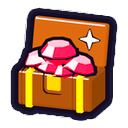
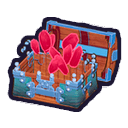
art(shop): 상점 묶음 그림 — 보석 팩이 수량대로 커지고 재화 탭은 상자 · 물약(Sketchfab CC BY, 셀 그림체로 다시 렌더)
- 붉은 보석 8 → 원석 하나, 45 → 결정 더미, 120 → 보석 넘치는 상자(뚜껑을 경첩 축으로 연 Sketchfab 상자)
- 재화 탭: 황금 보급 상자 = 금화 넘치는 상자 · 강화석 상자 = 하늘빛 결정 상자 · 방치 가속권(24h · 광고) = 물약
- art-gen/blender/sketchfab_icons.py: 보석 팩 한 메시를 떨어진 조각으로 나눠 골라 쓰고, 손그림 밝기만 살려 두 색 사이로 다시 칠한다(원색이 어두운 자주라 상점 보석보다 탁했다)
- 조립은 기존 scripts/assemble-shop-icons.mjs(PKG_SRC=art-gen/out/b3d-sficons) — 128² · 스티커 외곽선
- 크레딧: 게임 안(src/ui/credits.ts) · docs/CREDITS.md / 검사: verify-systems 상점 묶음 그림 단언

diff --git a/src/TitansGame.tsx b/src/TitansGame.tsx
@@ -5900,9 +5900,9 @@ export function TitansGame({ insets, userHash, forgedWeaponLevel: drumLevel = 0,
                 </article>
               );
             })}
-            {/* 재화 팩 — 수량이 진행도 비례라 후반에도 유의미하다 */}
+            {/* 재화 팩 — 수량이 진행도 비례라 후반에도 유의미하다. 그림은 상자 · 물약(2026-11-24, Sketchfab CC BY → 셀 렌더 art-gen/blender/sketchfab_icons.py) */}
             {premiumCategory === "currency" && <><article className="titans-card premium-product-card gem-product">
-              <RewardIcon kind="gold" size={38} className="pack-icon" />
+              <img className="pack-icon" src={assetUrl("ui/shop/gold-pack.png")} alt="" aria-hidden="true" />
               <div>
                 <strong>황금 보급 상자</strong>
                 <p>사냥터 골드 +{formatGold(goldPackAmount(character))} · 최고 스테이지 비례 <i className="feeds">→ 동료 레벨 · 무기 훈련</i></p>
@@ -5912,7 +5912,7 @@ export function TitansGame({ insets, userHash, forgedWeaponLevel: drumLevel = 0,
               </button>
             </article>
             <article className="titans-card premium-product-card gem-product">
-              <RewardIcon kind="materials" size={38} className="pack-icon" />
+              <img className="pack-icon" src={assetUrl("ui/shop/material-pack.png")} alt="" aria-hidden="true" />
               <div>
                 <strong>강화석 상자</strong>
                 <p>강화석 +{GEM_PACK.materialPackAmount} · 대장간·펫 간식 재료 <i className="feeds">→ 북 강화 · 보호구</i></p>
@@ -5964,7 +5964,7 @@ export function TitansGame({ insets, userHash, forgedWeaponLevel: drumLevel = 0,
             {/* L 보상형 광고: 방치 가속 4h (1일 1회) — 미연동이면 카드 자체가 없다 */}
             {premiumCategory === "currency" && rewardedAvailability(character, "booster4h", new Date().toLocaleDateString("sv-SE")) !== "none" && (
               <article className="titans-card premium-product-card gem-product ad-product">
-                <CurrencyIcon kind="gem" />
+                <img className="pack-icon" src={assetUrl("ui/shop/idle-boost.png")} alt="" aria-hidden="true" />
                 <div>
                   <strong>방치 가속 {BOOSTER_AD_HOURS}h {character.adFree ? <em>광고 제거</em> : <em>광고</em>}</strong>
                   <p>{character.adFree ? "광고 없이 오늘 1회 자동 적용" : "30초 광고 시청 · 오늘 1회"}</p>
@@ -5973,7 +5973,7 @@ export function TitansGame({ insets, userHash, forgedWeaponLevel: drumLevel = 0,
               </article>
             )}
             {premiumCategory === "currency" && <article className="titans-card premium-product-card gem-product">
-              <RewardIcon kind="boost" size={38} className="pack-icon" />
+              <img className="pack-icon" src={assetUrl("ui/shop/idle-boost.png")} alt="" aria-hidden="true" />
               <div>
                 <strong>방치 가속권 24h {character.idleBoostUntil > Date.now() && <em>적용 중</em>}</strong>
                 <p>24시간 동안 방치 산출 2배 · 중첩 불가 <i className="feeds">→ 방치 정산 골드·경험치</i></p>

diff --git a/src/ui/credits.ts b/src/ui/credits.ts
@@ -23,6 +23,10 @@ export const SKETCHFAB_CREDITS: readonly ModelCredit[] = [
   { title: "PBR Low-poly Fox Character", author: "Ida Faber", url: "https://sketchfab.com/3d-models/pbr-low-poly-fox-character-88ed6191446749b9a9e24b995bcb5e1d", use: "펫 '꼬마 여우'" },
   { title: "Penguin plush", author: "SunnyBuns", url: "https://sketchfab.com/3d-models/penguin-plush-228fddb7362f42e2a349b84cbe8191b4", use: "펫 '아기 펭귄'" },
   { title: "Frog", author: "gooseg489", url: "https://sketchfab.com/3d-models/frog-b3fb06508c5649fd8ecb30d79e2b9050", use: "펫 '풀잎 개구리'" },
+  // 상점 묶음 그림(2026-11-24, art-gen/blender/sketchfab_icons.py → public/ui/shop)
+  { title: "Stylized Crystal Gem pack - Handpainted", author: "ashkan.fancy", url: "https://sketchfab.com/3d-models/stylized-crystal-gem-pack-handpainted-9aa1af6e18b24c99af00e850f9fd2658", use: "상점 붉은 보석 팩 · 강화석 상자 그림" },
+  { title: "Stylized Treasure Chest", author: "Tom Verbeeck", url: "https://sketchfab.com/3d-models/stylized-treasure-chest-dbeae8db89eb433f832d0ef48f12480e", use: "상점 보석 120 · 황금 보급 상자 · 강화석 상자 그림" },
+  { title: "Stylized Potion", author: "Moon Cube Studios (@KinanArts)", url: "https://sketchfab.com/3d-models/stylized-potion-78d411a585144c4f91ca51d876982ed7", use: "상점 방치 가속권 그림" },
 ];
 
 export const CREDIT_LICENSE = "CC BY 4.0 — 우리 그림체(셀 음영 · 외곽선)로 다시 렌더해 바꿨다";

diff --git a/art-gen/blender/sketchfab_icons.py b/art-gen/blender/sketchfab_icons.py
@@ -1,0 +1,334 @@
+"""상점 묶음 그림 — Sketchfab 보석 · 상자 · 물약(CC BY) → 셀 아이콘 (2026-11-24, 사용자: "sketchfab … 아이콘 · UI" → "상점 묶음 그림 만들기").
+  blender -b -P art-gen/blender/sketchfab_icons.py -- [all | <job> …]      (ART_STYLE=toon 기본 셀)
+  SFI_PREVIEW=1 … -- gems chest potion   → 원본 그대로 한 장씩(모양 · 앞쪽 확인)
+입력: art-gen/out/sketchfab/i-gems.glb · i-chest.glb · i-potion.glb (저장소 밖 — 작가 · 라이선스는 docs/CREDITS.md)
+출력: art-gen/out/b3d-sficons/pkg-<상품>.png (512²) → PKG_SRC=art-gen/out/b3d-sficons node scripts/assemble-shop-icons.mjs
+보석 팩은 수량이 늘수록 그림도 커진다 — 보석 하나(80) → 보석 더미(450) → 보석 넘치는 상자(1200).
+재화 탭: 황금 보급 상자 = 금화 넘치는 상자 · 강화석 상자 = 푸른 결정 넘치는 상자 · 방치 가속권 = 물약.
+카메라 · 조명 · 셀 설정은 유물/패키지 아이콘(relic_icons.py)과 같다 — 직교 · 위에서 비스듬히, 외곽선은 assemble 의 스티커."""
+import bpy
+import sys
+import os
+import math
+import random
+from mathutils import Vector, Euler
+
+sys.path.insert(0, os.path.dirname(os.path.abspath(__file__)))
+from lib import bcommon as C
+
+ROOT = os.path.abspath(os.path.join(os.path.dirname(__file__), '..', '..'))
+SRC = os.path.join(ROOT, 'art-gen', 'out', 'sketchfab')
+OUT = os.environ.get('SFI_OUT') or os.path.join(ROOT, 'art-gen', 'out', 'b3d-sficons')
+INK_W = float(os.environ.get('SFI_INK', '0.018'))
+
+
+def import_glb(file, keep=None, piece=None):
+    before = set(bpy.data.objects)
+    bpy.ops.import_scene.gltf(filepath=os.path.join(SRC, file))
+    objs = [o for o in bpy.data.objects if o not in before]
+    if keep:   # 메시 이름에 keep 이 든 것만(묶음 파일에서 하나 고르기)
+        for o in [o for o in objs if o.type == 'MESH' and keep not in o.name]:
+            objs.remove(o)
+            bpy.data.objects.remove(o, do_unlink=True)
+    if piece is not None:   # 한 메시에 물건이 줄지어 붙어 있다(보석 팩: 결정 덩어리 + 보석 6) — 떨어진 조각으로 나눠 왼쪽부터 piece 번째 무리만
+        objs = only_piece(objs, piece)
+    return objs
+
+
+def only_piece(objs, idx):
+    mesh = next(o for o in objs if o.type == 'MESH')
+    bpy.ops.object.select_all(action='DESELECT')
+    mesh.select_set(True)
+    bpy.context.view_layer.objects.active = mesh
+    bpy.ops.object.mode_set(mode='EDIT')
+    bpy.ops.mesh.select_all(action='SELECT')
+    bpy.ops.mesh.separate(type='LOOSE')
+    bpy.ops.object.mode_set(mode='OBJECT')
+    parts = [o for o in bpy.context.selected_objects if o.type == 'MESH']
+    bpy.context.view_layer.update()
+
+    def xr(o):
+        xs = [(o.matrix_world @ Vector(c)).x for c in o.bound_box]
+        return min(xs), max(xs)
+    parts.sort(key=lambda o: xr(o)[0])
+    groups, hi = [], -1e9
+    for o in parts:   # x 범위가 겹치면 같은 무리(결정 덩어리는 조각 여럿)
+        lo_, hi_ = xr(o)
+        if groups and lo_ < hi + 0.02:
+            groups[-1].append(o)
+            hi = max(hi, hi_)
+        else:
+            groups.append([o])
+            hi = hi_
+    keep = set(groups[idx])
+    for o in parts:
+        if o not in keep:
+            objs.remove(o) if o in objs else None
+            bpy.data.objects.remove(o, do_unlink=True)
+    return [o for o in objs if o.name in bpy.data.objects] + [o for o in keep if o not in objs]
+
+
+def bounds(objs):
+    bpy.context.view_layer.update()
+    lo, hi = Vector((1e9, 1e9, 1e9)), Vector((-1e9, -1e9, -1e9))
+    for o in objs:
+        if o.type != 'MESH':
+            continue
+        for c in o.bound_box:
+            w = o.matrix_world @ Vector(c)
+            lo = Vector((min(lo.x, w.x), min(lo.y, w.y), min(lo.z, w.z)))
+            hi = Vector((max(hi.x, w.x), max(hi.y, w.y), max(hi.z, w.z)))
+    return lo, hi
+
+
+def placed(file, size, at=(0, 0, 0), rot=(0, 0, 0), keep=None, axis='max', piece=None):
+    """모델을 크기 size(가장 긴 변 · axis='z' 면 높이)로 맞춰 바닥 가운데를 at 에 둔다. 돌림은 바닥 가운데 기준"""
+    objs = import_glb(file, keep, piece)
+    norm = bpy.data.objects.new('norm', None)
+    holder = bpy.data.objects.new('holder', None)
+    for e in (norm, holder):
+        bpy.context.scene.collection.objects.link(e)
+    for o in objs:
+        if o.parent is None:
+            o.parent = norm
+    lo, hi = bounds(objs)
+    d = hi - lo
+    s = size / max(1e-6, d.z if axis == 'z' else max(d.x, d.y, d.z))
+    norm.scale = (s, s, s)
+    norm.location = (-s * (lo.x + hi.x) / 2, -s * (lo.y + hi.y) / 2, -s * lo.z)
+    norm.parent = holder
+    holder.location = at
+    holder.rotation_euler = Euler([math.radians(a) for a in rot])
+    bpy.context.view_layer.update()
+    meshes = [o for o in objs if o.type == 'MESH']
+    for o in meshes:
+        sc = o.matrix_world.to_scale()
+        C.add_outline(o, INK_W / max(1e-6, (abs(sc.x) + abs(sc.y) + abs(sc.z)) / 3))
+    return holder, meshes
+
+
+def tint(meshes, dark, light, hi=0.32):
+    """원본 손그림 텍스처의 밝기만 살려 두 색 사이로 다시 칠한다(어두운 곳 dark · 밝은 곳 light).
+    보석 팩 원색은 어두운 자주라 곱하기로 물들이면 상점 보석(밝은 루비)보다 탁했다"""
+    c0, c1 = C.srgb(dark), C.srgb(light)
+    for o in meshes:
+        for slot in o.material_slots:
+            mat = slot.material
+            if not mat or not mat.use_nodes:
+                continue
+            mat = mat.copy()
+            slot.material = mat
+            nt = mat.node_tree
+            bsdf = next((n for n in nt.nodes if n.type == 'BSDF_PRINCIPLED'), None)
+            emit = next((n for n in nt.nodes if n.type == 'EMISSION'), None)   # 보석 팩은 빛 안 받는 손그림(텍스처 → 발광)
+            if not bsdf and not emit:
+                continue
+            base = bsdf.inputs['Base Color'] if bsdf else emit.inputs['Color']
+            ramp = nt.nodes.new('ShaderNodeValToRGB')
+            ramp.color_ramp.elements[0].position, ramp.color_ramp.elements[0].color = 0.0, c0
+            ramp.color_ramp.elements[1].position, ramp.color_ramp.elements[1].color = hi, c1
+            if base.is_linked:
+                bw = nt.nodes.new('ShaderNodeRGBToBW')
+                nt.links.new(base.links[0].from_socket, bw.inputs[0])
+                nt.links.new(bw.outputs[0], ramp.inputs[0])
+            else:
+                ramp.inputs[0].default_value = 0.6
+            nt.links.new(ramp.outputs[0], base)
+            if bsdf:
+                bsdf.inputs['Roughness'].default_value = 0.3
+
+
+def vivid(meshes, sat=1.5, val=1.3, hue=0.5):
+    """텍스처 색을 더 짙고 밝게(물약 원본은 탁한 갈색이라 상점 판에서 묻혔다)"""
+    for o in meshes:
+        for slot in o.material_slots:
+            mat = slot.material
+            if not mat or not mat.use_nodes:
+                continue
+            nt = mat.node_tree
+            bsdf = next((n for n in nt.nodes if n.type == 'BSDF_PRINCIPLED'), None)
+            if not bsdf or not bsdf.inputs['Base Color'].is_linked:
+                continue
+            src = bsdf.inputs['Base Color'].links[0].from_socket
+            hs = nt.nodes.new('ShaderNodeHueSaturation')
+            hs.inputs['Hue'].default_value, hs.inputs['Saturation'].default_value, hs.inputs['Value'].default_value = hue, sat, val
+            nt.links.new(src, hs.inputs['Color'])
+            nt.links.new(hs.outputs['Color'], bsdf.inputs['Base Color'])
+
+
+def coin_mat():
+    mat = bpy.data.materials.new('coin')
+    mat.use_nodes = True
+    b = mat.node_tree.nodes.get('Principled BSDF')
+    b.inputs['Base Color'].default_value = C.srgb('#ffc928')
+    b.inputs['Metallic'].default_value = 0.6
+    b.inputs['Roughness'].default_value = 0.35
+    return mat
+
+
+def coin(at, r=0.13, rot=(0, 0, 0), mat=None, edge=None):
+    bpy.ops.mesh.primitive_cylinder_add(vertices=24, radius=r, depth=r * 0.3, location=at, rotation=[math.radians(a) for a in rot])
+    o = bpy.context.active_object
+    o.data.materials.append(mat or coin_mat())
+    if edge:   # 옆면은 어두운 금 — 동전끼리 겹쳐도 한 닢씩 읽히게
+        o.data.materials.append(edge)
+        for poly in o.data.polygons:
+            if abs(poly.normal.z) < 0.5:
+                poly.material_index = 1
+    bpy.ops.object.shade_smooth()
+    C.add_outline(o, INK_W)
+    return o
+
+
+# (어두운 곳, 밝은 곳) — 상점 붉은 보석(ui/attendance 보석 · 루비)과 강화석(하늘빛 결정) 색
+GEM_RED, GEM_BLUE = ('#a50d2c', '#ff6a86'), ('#1f7fd0', '#c8f8ff')
+
+
+def gem(at, size, rot=(0, 0, 0), col=GEM_RED, piece=2):
+    """보석 팩의 조각 하나 — 메시 4개가 모양이 같고 색만 달라 첫 것을 다시 칠한다. piece 0 = 결정 덩어리 · 1~6 = 낱개 원석"""
+    h, ms = placed('i-gems.glb', size, at, rot, keep='gem_Material', piece=piece, axis='z')
+    tint(ms, *col)
+    return h
+
+
+def open_chest(at=(0, 0, 0), size=1.5, lid=-105, yaw=0):
+    """상자 — 뚜껑(Top_*)을 뒤쪽 경첩 축으로 열어 젖힌다"""
+    objs = import_glb('i-chest.glb')
+    lo, hi = bounds(objs)
+    s = size / max(1e-6, max(hi.x - lo.x, hi.y - lo.y))
+    root = bpy.data.objects.new('chest', None)
+    hinge = bpy.data.objects.new('hinge', None)
+    for e in (root, hinge):
+        bpy.context.scene.collection.objects.link(e)
+    # 경첩: 뒤쪽 위(+Y 끝 · 뚜껑 바닥 높이 0.336 — 원본 좌표)
+    hinge.location = (0, hi.y, 0.336)
+    hinge.parent = root
+    for o in objs:
+        if o.type == 'MESH' and o.name.startswith('Top_'):
+            mw = o.matrix_world.copy()
+            o.parent = hinge
+            o.matrix_parent_inverse = hinge.matrix_world.inverted()
+            o.matrix_world = mw
+        elif o.parent is None:
+            o.parent = root
+    bpy.context.view_layer.update()
+    hinge.rotation_euler = (math.radians(lid), 0, 0)
+    root.scale = (s, s, s)
+    root.location = at
+    root.rotation_euler = (0, 0, math.radians(yaw))
+    bpy.context.view_layer.update()
+    for o in objs:
+        if o.type == 'MESH':
+            sc = o.matrix_world.to_scale()
+            C.add_outline(o, INK_W / max(1e-6, (abs(sc.x) + abs(sc.y) + abs(sc.z)) / 3))
+    rim = (0.336 - lo.z) * s   # 상자 몸 윗면 높이(바닥 0 기준) — 내용물을 여기 쌓는다
+    return root, rim, s * (hi.x - lo.x), s * (hi.y - lo.y)
+
+
+def heap(cx, cz, w, d, n, make, seed=3):
+    """상자 위에 쌓인 더미 — 가운데가 볼록하게"""
+    rnd = random.Random(seed)
+    for k in range(n):
+        u, v = rnd.uniform(-0.5, 0.5), rnd.uniform(-0.5, 0.5)
+        bump = (1 - (2 * u) ** 2) * (1 - (2 * v) ** 2)
+        make(Vector((cx + u * w, v * d, cz + 0.02 + bump * 0.34 + rnd.uniform(0, 0.06))), rnd)
+
+
+# ── 일 ──
+def j_gems_80():   # 원석 하나 + 작은 것 하나
+    gem((0.12, 0.1, -0.8), 1.45, rot=(0, 10, 0), piece=5)
+    gem((-0.45, -0.25, -0.8), 0.7, rot=(0, -28, 40), piece=2)
+
+
+def j_gems_450():   # 결정 덩어리 + 원석 셋 — 한 줌
+    gem((0.05, 0.25, -0.8), 1.5, rot=(0, 0, 10), piece=0)
+    for (x, y, sz, ry, rz, pc) in ((-0.55, -0.35, 0.75, -30, 30, 5), (0.6, -0.3, 0.7, 32, -20, 4), (0.0, -0.55, 0.55, -10, 80, 2)):
+        gem((x, y, -0.8), sz, rot=(0, ry, rz), piece=pc)
+
+
+def _chest_with(fill):
+    root, rim, w, d = open_chest((0, 0, -0.75), 1.6, yaw=0)
+    fill(-0.75 + rim, w * 0.82, d * 0.75)
+
+
+def j_gems_1200():
+    _chest_with(lambda z, w, d: heap(0, z, w, d, 9, lambda at, r: gem(tuple(at), r.uniform(0.42, 0.56), rot=(r.uniform(-30, 30), r.uniform(-30, 30), r.uniform(0, 180)), piece=r.randint(1, 6)), seed=5))
+
+
+def j_gold_pack():
+    m, e = coin_mat(), coin_mat()
+    e.node_tree.nodes.get('Principled BSDF').inputs['Base Color'].default_value = C.srgb('#c9780a')
+    _chest_with(lambda z, w, d: heap(0, z, w, d, 22, lambda at, r: coin(tuple(at), 0.17, rot=(r.uniform(-60, 60), r.uniform(-60, 60), 0), mat=m, edge=e), seed=7))
+
+
+def j_material_pack():
+    _chest_with(lambda z, w, d: (gem((0, 0, z - 0.05), 0.75, rot=(0, 0, 20), col=GEM_BLUE, piece=0), heap(0, z, w, d, 6, lambda at, r: gem(tuple(at), r.uniform(0.36, 0.48), rot=(r.uniform(-30, 30), r.uniform(-30, 30), r.uniform(0, 180)), col=GEM_BLUE, piece=r.randint(1, 6)), seed=11)))
+
+
+def j_idle_boost():
+    h, ms = placed('i-potion.glb', 1.75, (0, 0, -0.85), (0, 0, 0), axis='z')
+    vivid(ms)
+
+
+# 이름: (일, 카메라 위 각도, 직교 크기, 돌림(°)) — 돌림은 모델 전체를 기둥에 달아 돌린다(ortho_camera 는 yaw 를 무시)
+JOBS = {
+    'pkg-gems-80': (j_gems_80, 16, 2.0, -20),
+    'pkg-gems-450': (j_gems_450, 20, 2.1, -18),
+    'pkg-gems-1200': (j_gems_1200, 26, 2.7, -24),
+    'pkg-gold-pack': (j_gold_pack, 26, 2.7, -24),
+    'pkg-material-pack': (j_material_pack, 26, 2.7, -24),
+    'pkg-idle-boost': (j_idle_boost, 10, 2.0, -20),
+}
+
+
+def frame(elev, scale, yaw):
+    piv = bpy.data.objects.new('pivot', None)
+    bpy.context.scene.collection.objects.link(piv)
+    for o in [o for o in bpy.context.scene.objects if o.parent is None and o.type in ('MESH', 'EMPTY') and o is not piv]:
+        o.parent = piv
+    piv.rotation_euler = Euler((0, 0, math.radians(yaw)))
+    C.ortho_camera((0.0, 0.0), scale, yaw_deg=0, elev_deg=elev)
+
+
+def shoot(name):
+    bpy.context.view_layer.update()
+    if os.environ.get('ART_STYLE', 'toon') == 'toon':
+        from lib import toon as TOON
+        TOON.apply(bpy.context.scene)
+    bpy.context.scene.render.filepath = os.path.join(OUT, f'{name}.png')
+    bpy.ops.render.render(write_still=True)
+    print('wrote', name, flush=True)
+
+
+os.makedirs(OUT, exist_ok=True)
+argv = sys.argv[sys.argv.index('--') + 1:] if '--' in sys.argv else ['all']
+if os.environ.get('SFI_PREVIEW') == '1':
+    for key, file in (('gems', 'i-gems.glb'), ('chest', 'i-chest.glb'), ('potion', 'i-potion.glb')):
+        if key not in argv:
+            continue
+        for yaw in (0, 90):
+            C.reset()
+            C.setup_render(res=(384, 384), samples=24)
+            C.lights()
+            placed(file, 1.6, (0, 0, -0.8))
+            frame(18, 2.2, yaw)
+            shoot(f'preview-{key}-{yaw}')
+    if 'gem1' in argv:   # 보석 조각 7(왼쪽부터 0 = 결정 덩어리) — 고르기
+        for k in range(7):
+            C.reset()
+            C.setup_render(res=(384, 384), samples=24)
+            C.lights()
+            h, ms = placed('i-gems.glb', 1.5, (0, 0, -0.75), (0, 0, 0), keep='gem_Material', piece=k)
+            tint(ms, *GEM_RED)
+            frame(18, 2.2, -20)
+            shoot(f'preview-gem1-{k}')
+else:
+    for name in (list(JOBS) if 'all' in argv else [a for a in argv if a in JOBS]):
+        fn, elev, scale, yaw = JOBS[name]
+        C.reset()
+        C.setup_render(res=(512, 512), samples=40)
+        C.lights()
+        fn()
+        frame(elev, scale, yaw)
+        shoot(name)
+print('DONE')

diff --git a/docs/CREDITS.md b/docs/CREDITS.md
@@ -24,7 +24,11 @@
 | 상점 펫 '꼬마 여우' | PBR Low-poly Fox Character | Ida Faber | https://sketchfab.com/3d-models/pbr-low-poly-fox-character-88ed6191446749b9a9e24b995bcb5e1d | pet-fox.glb |
 | 상점 펫 '아기 펭귄' | Penguin plush | SunnyBuns | https://sketchfab.com/3d-models/penguin-plush-228fddb7362f42e2a349b84cbe8191b4 | pet-penguin.glb |
 | 상점 펫 '풀잎 개구리' | Frog | gooseg489 | https://sketchfab.com/3d-models/frog-b3fb06508c5649fd8ecb30d79e2b9050 | pet-frog.glb |
+| 상점 붉은 보석 팩(8 · 45 · 120) · 강화석 상자 | Stylized Crystal Gem pack - Handpainted | ashkan.fancy | https://sketchfab.com/3d-models/stylized-crystal-gem-pack-handpainted-9aa1af6e18b24c99af00e850f9fd2658 | i-gems.glb |
+| 상점 보석 120 · 황금 보급 상자 · 강화석 상자 | Stylized Treasure Chest | Tom Verbeeck | https://sketchfab.com/3d-models/stylized-treasure-chest-dbeae8db89eb433f832d0ef48f12480e | i-chest.glb |
+| 상점 방치 가속권(24h · 광고) | Stylized Potion | Moon Cube Studios (@KinanArts) | https://sketchfab.com/3d-models/stylized-potion-78d411a585144c4f91ca51d876982ed7 | i-potion.glb |
 
+상점 묶음 그림은 `art-gen/blender/sketchfab_icons.py`(보석 팩은 수량대로 원석 → 결정 더미 → 넘치는 상자, 손그림 밝기만 살려 붉은 보석 · 하늘빛 강화석 색으로 다시 칠함) → `scripts/assemble-shop-icons.mjs`(PKG_SRC=art-gen/out/b3d-sficons).
 바닥 소품 렌더는 `art-gen/blender/hunt_ground.py`(SF_PROPS — 지역마다 뒤 가장자리 · 아래 모서리, 발 자리는 비움)이다. 작가가 넣은 검은 외곽선 껍질 메시는 걸러 낸다.
 
 받았지만 쓰지 않은 것
